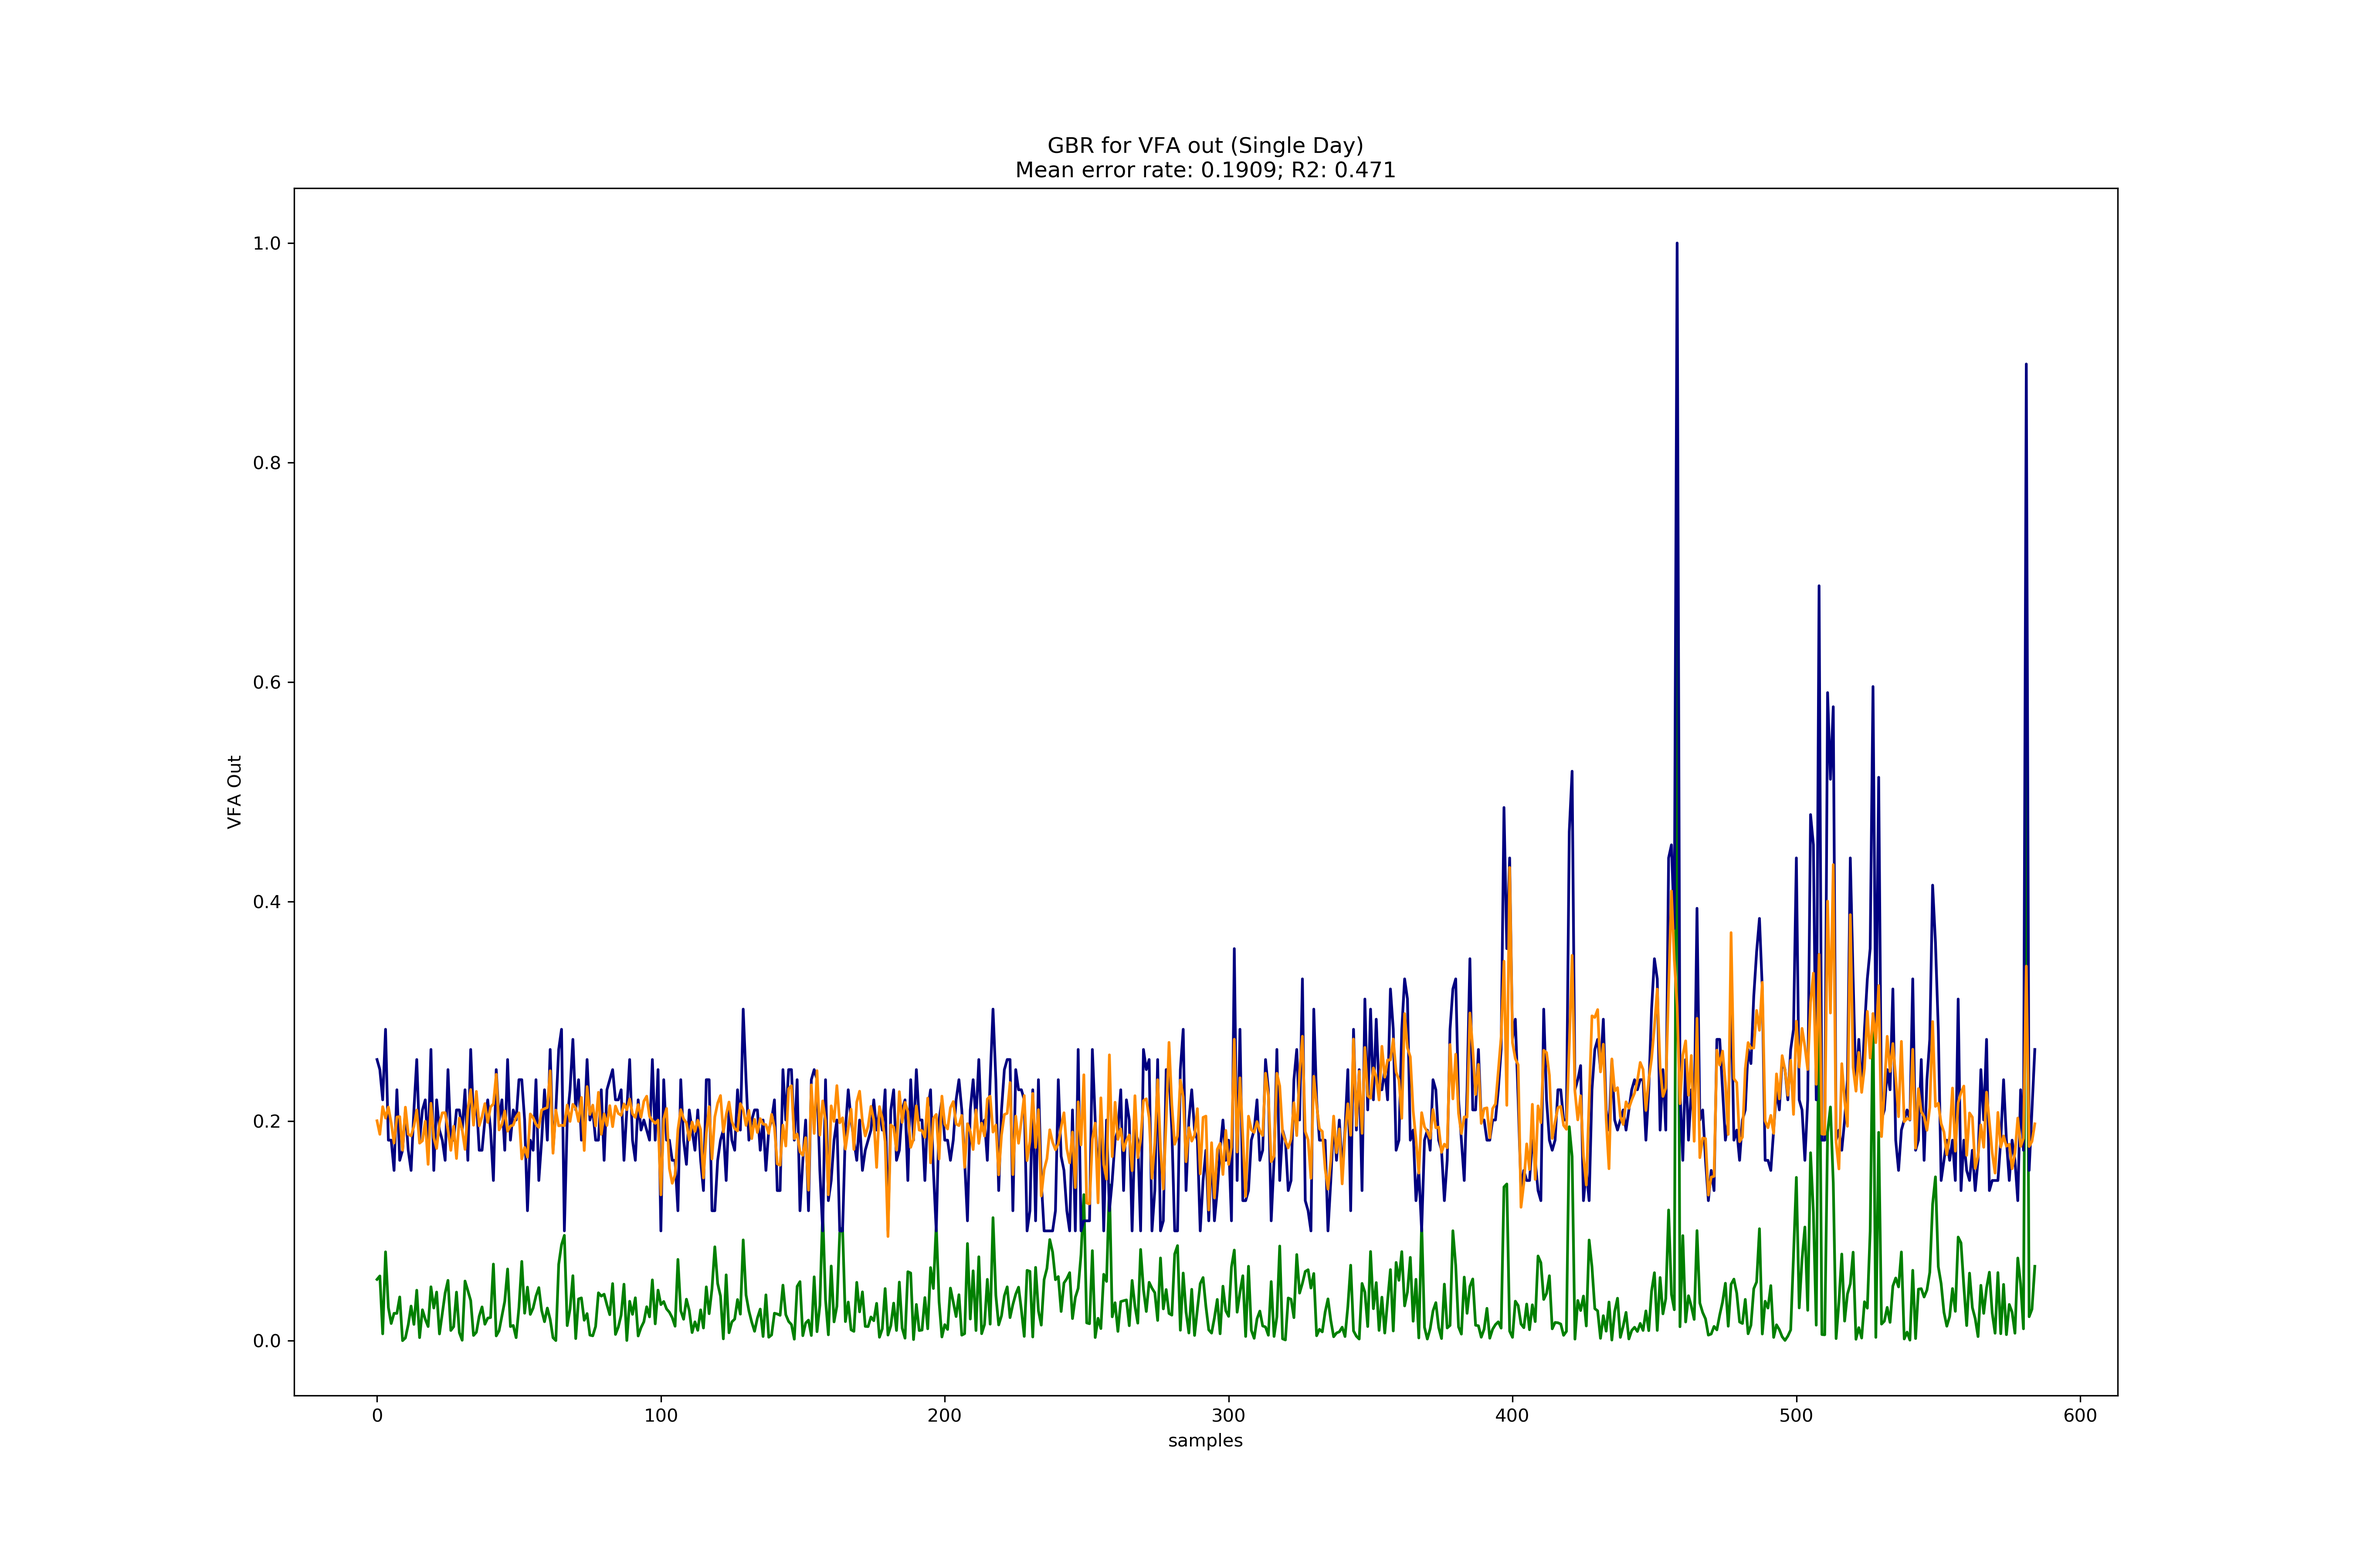
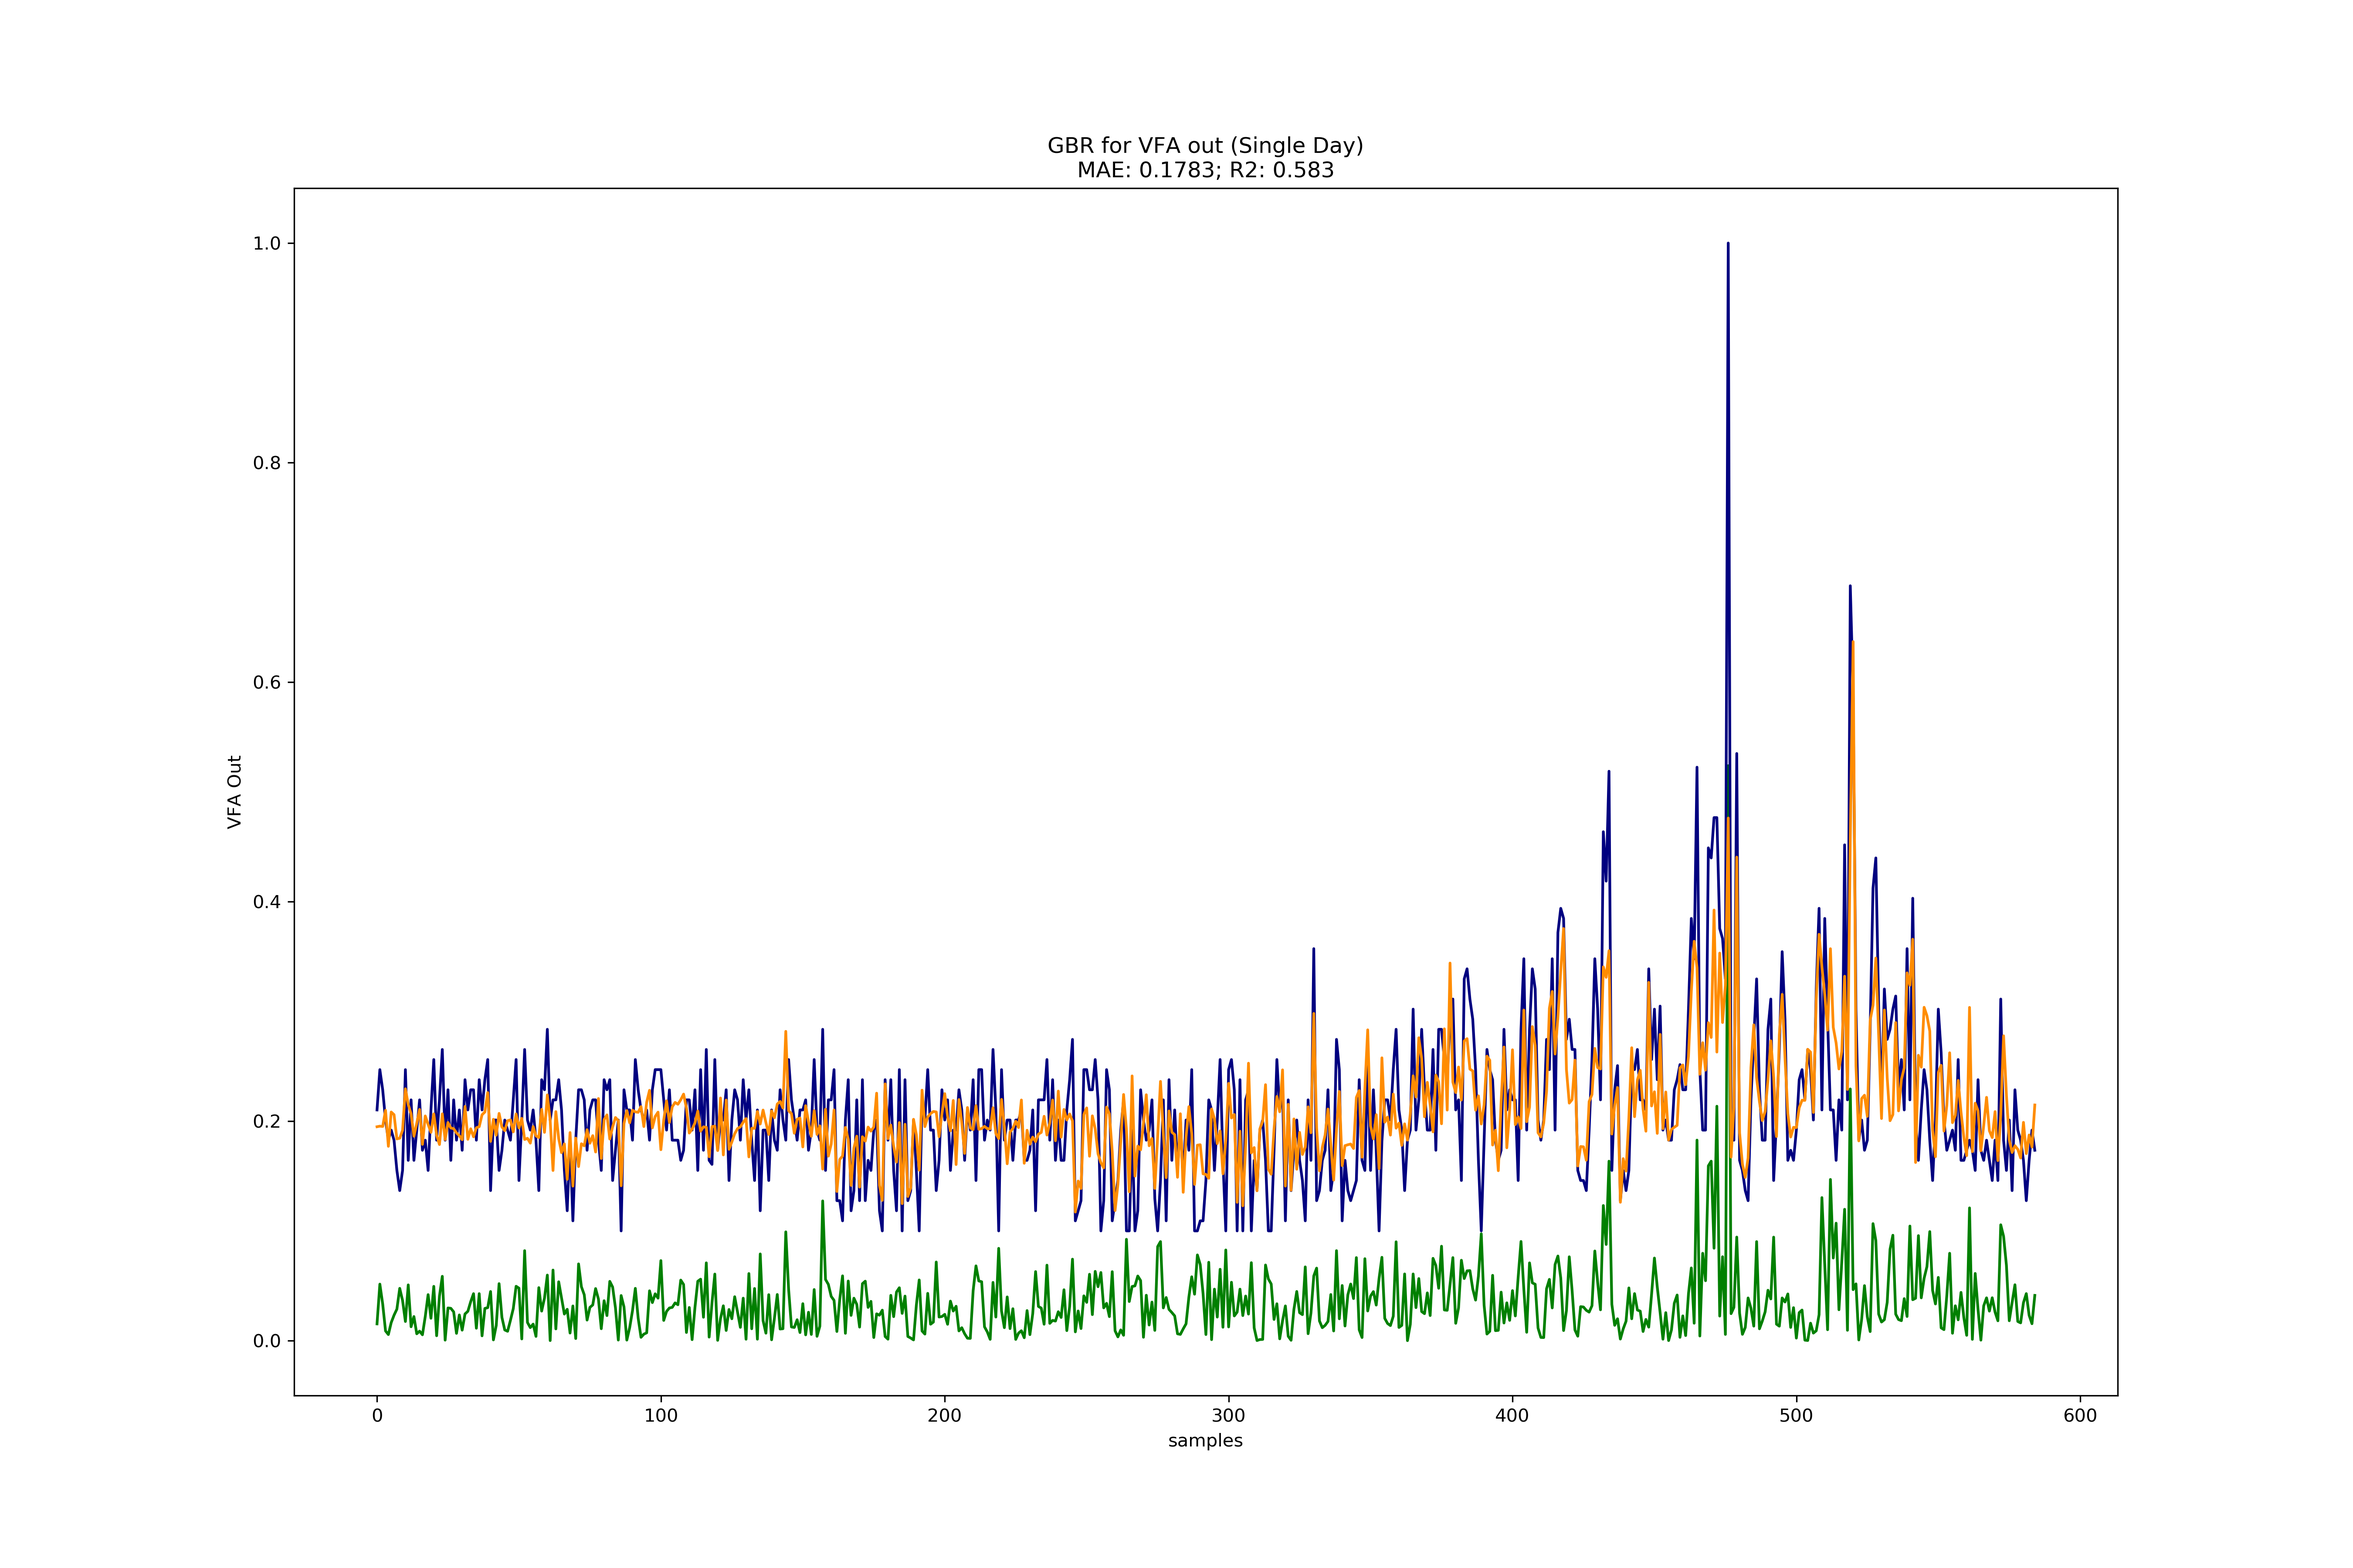
3分类器无效

Changed region(s): [[0.1556, 0.4356, 0.8711, 0.8711], [0.4356, 0.0933, 0.5911, 0.1244]]

diff --git a/Emh/GBRforVFA/mainScript.py b/Emh/GBRforVFA/mainScript.py
@@ -112,7 +112,7 @@ for index in range(5):
     mean = np.mean(testLabel)
     R2 = 1 - np.sum(np.square(error)) / np.sum(np.square(np.array(testLabel) - mean))
     print('%s,GBR: u 0.05: %s, u 0.1: %s, meanER: %s, R2: %s' % (index+1, str(counter005/len(leftList))[:5], str(counter01/len(leftList))[:5], str(MeanErrorRate)[:5], str(R2)[:5]))
-    title = 'GBR for COD out (Single Day)\nMean error rate: ' + (str(MeanErrorRate))[:6] + '; R2: ' + str(R2)[:5]
+    title = 'GBR for COD out (Single Day)\nMAE: ' + (str(MeanErrorRate))[:6] + '; R2: ' + str(R2)[:5]
     plt.figure(figsize=(18, 12), dpi=300)
     # plt.scatter(y_fixU, y_valueU, s=markerSizeU, color=color, marker='+', label='classifier predict(predict to low)')
     # plt.scatter(y_fixD, y_valueD, s=markerSizeD, color=color, marker='x', label='classifier predict(predict to high)')
@@ -121,9 +121,9 @@ for index in range(5):
     plt.plot([i for i in range(len(y_predict))], y_predict, color='darkorange', label='predict value')
     plt.title(title)
     plt.xlabel('samples')
-    plt.ylabel('VFA Out')
+    plt.ylabel('COD Out')
     plt.savefig("./Result/Single GBR4COD "+str(index)+".png", dpi=300)
-    plt.show()
+    # plt.show()
 
     [MeanErrorRate, y_predict, counter005, counter01, error] = svrSearcher(trainList, trainLabel, testList, testLabel)
     """y_valueU = []
@@ -140,7 +140,7 @@ for index in range(5):
     mean = np.mean(testLabel)
     R2 = 1 - np.sum(np.square(error)) / np.sum(np.square(np.array(testLabel) - mean))
     print('  SVR: u 0.05: %s, u 0.1: %s, meanER: %s, R2: %s\n' % (str(counter005 / len(leftList))[:5], str(counter01 / len(leftList))[:5], str(MeanErrorRate)[:5], str(R2)[:5]))
-    title = 'SVR for COD out (Single Day)\nMean error rate: ' + (str(MeanErrorRate))[:6] + '; R2: ' + str(R2)[:5]
+    title = 'SVR for COD out (Single Day)\nMAE: ' + (str(MeanErrorRate))[:6] + '; R2: ' + str(R2)[:5]
     plt.figure(figsize=(18, 12), dpi=300)
     # plt.scatter(y_fixU, y_valueU, s=markerSizeU, color=color, marker='+', label='classifier predict(predict to low)')
     # plt.scatter(y_fixD, y_valueD, s=markerSizeD, color=color, marker='x', label='classifier predict(predict to high)')
@@ -149,9 +149,9 @@ for index in range(5):
     plt.plot([i for i in range(len(y_predict))], y_predict, color='darkorange', label='predict value')
     plt.title(title)
     plt.xlabel('samples')
-    plt.ylabel('VFA Out')
+    plt.ylabel('COD Out')
     plt.savefig("./Result/Single SVR4COD " + str(index) + ".png", dpi=300)
-    plt.show()
+    # plt.show()
     """for i in range(len(error)):
         if error[i] >= 0.05:
             errorRecorder005[leftList[i]] += 1
